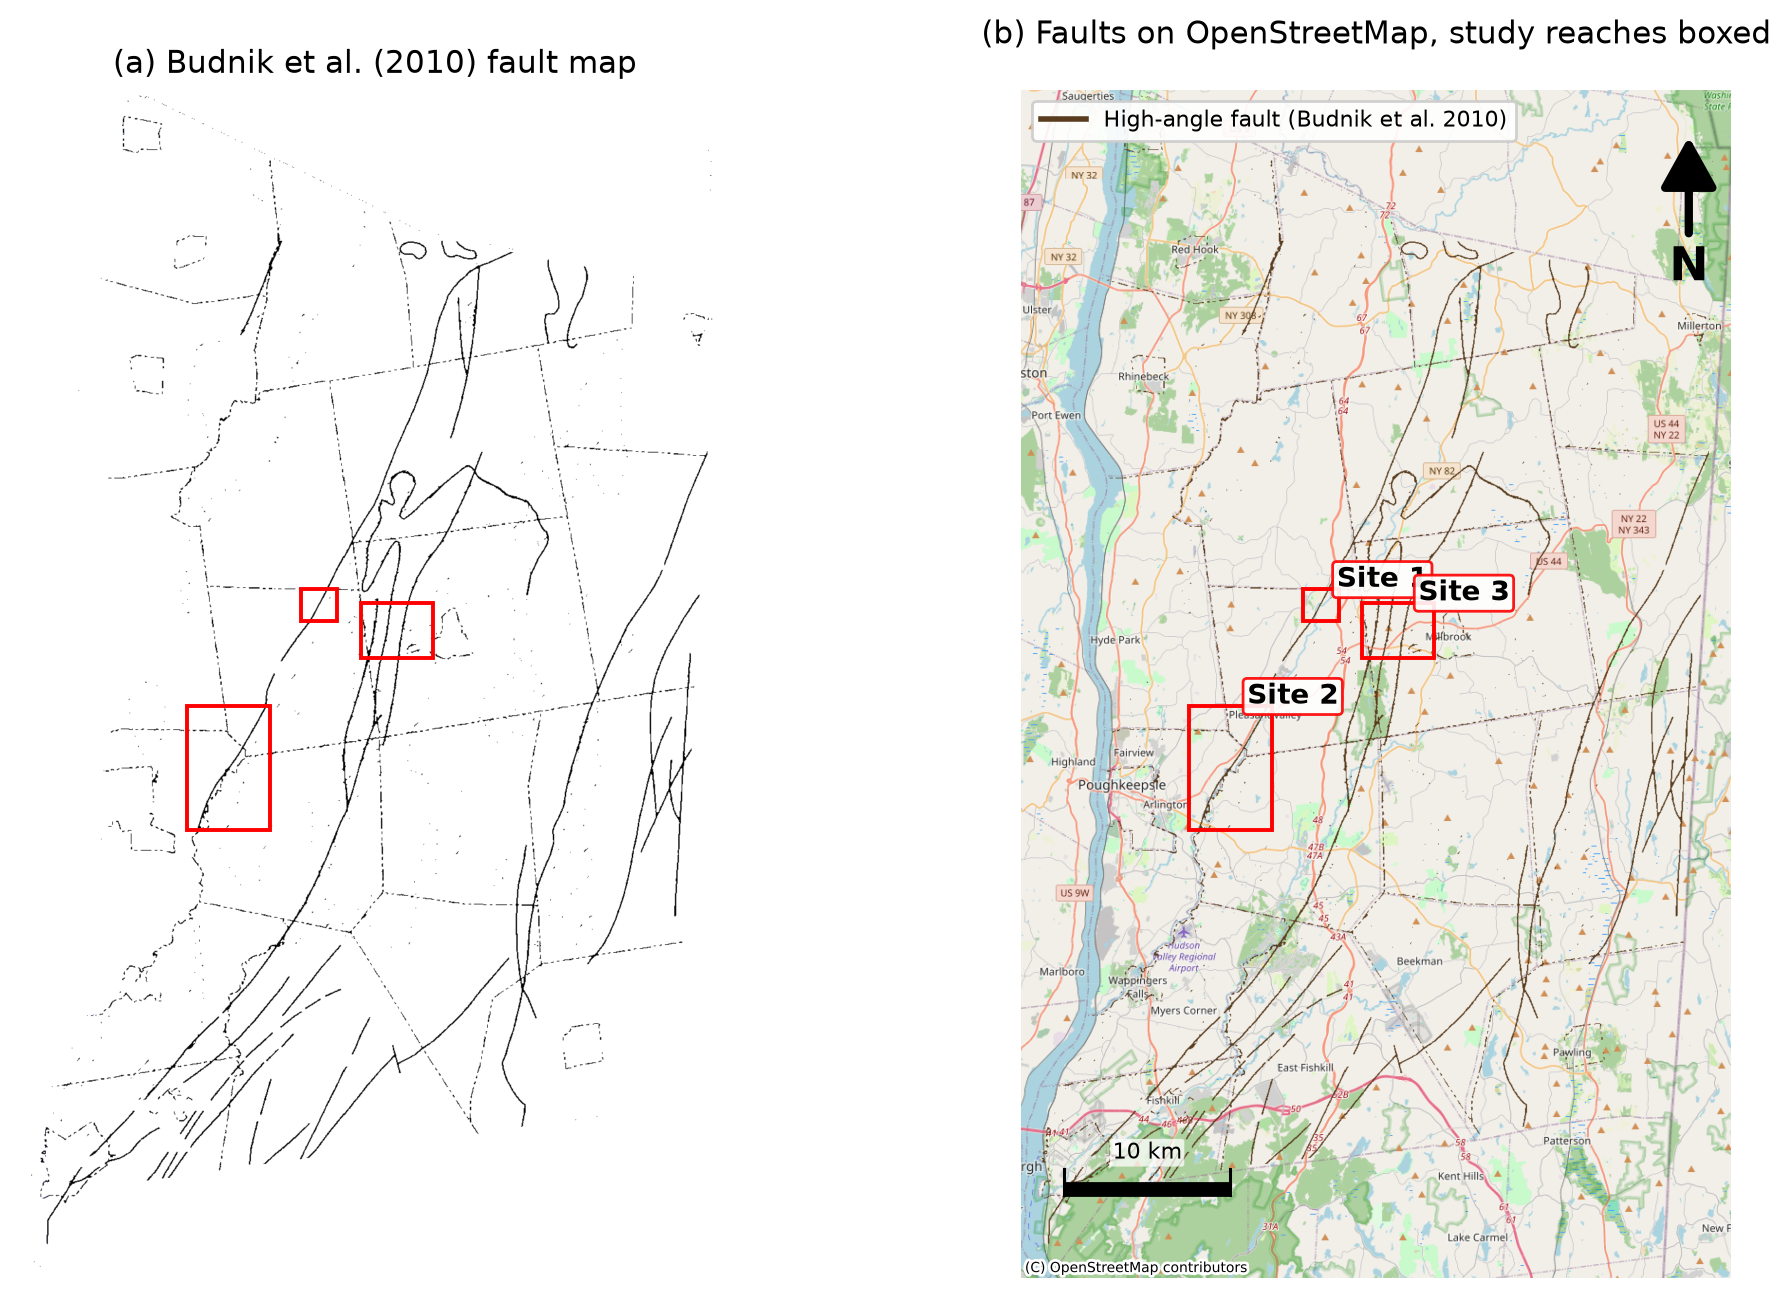
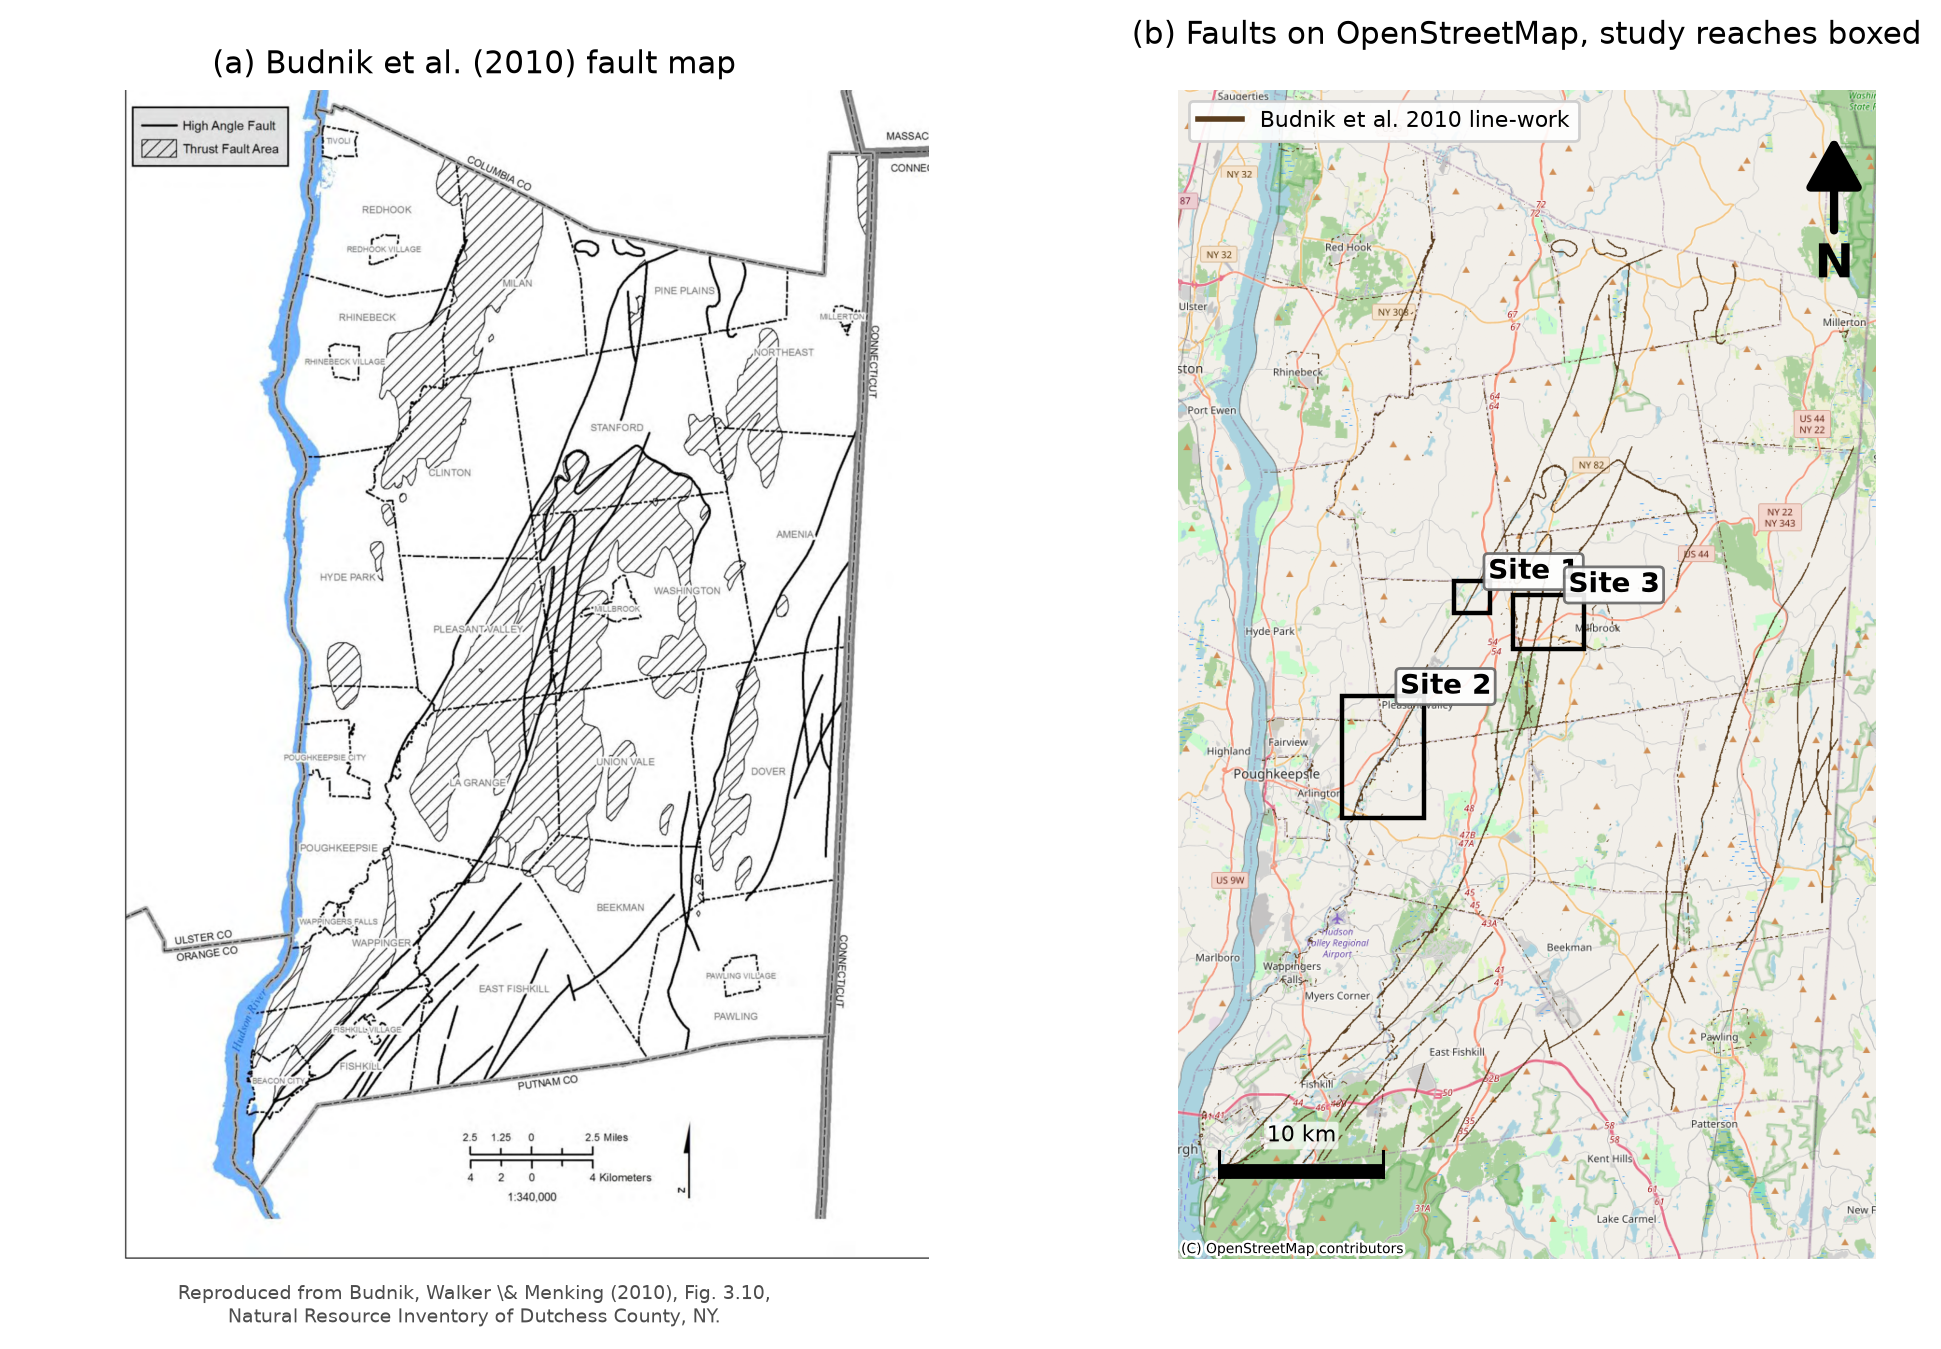
Figure 1: panel (a) = published Budnik figure with thrust areas + attribution
- The clipped/georeferenced raster (clipped_budnik.tif) lost the thrust-fault
  hatched areas in the clip, so panel (a) now reproduces the published Fig 3.10
  directly (thrust areas + legend + scale) with an on-figure source credit and
  a \citet attribution in the caption
- Panel (b) fault source is now prioritized: traced GeoJSON (bold clean lines)
  > clipped raster line-work > survey traces. Ready for hand-traced
  data/faults_budnik2010.geojson to drop in as bold fault lines

diff --git a/src/maps.py b/src/maps.py
@@ -382,65 +382,101 @@ def load_budnik_raster():
     return disp, rgba, extent
 
 
-def draw_overview(df, zframes):
-    """Two-panel regional figure (Figure 1), both panels at the SAME extent.
+def _budnik_extent():
+    """Geographic extent (Web Mercator) of the clipped Budnik raster, or None."""
+    tif = DATA / "clipped_budnik.tif"
+    if not tif.exists():
+        return None
+    import rasterio
+    b = rasterio.open(tif).bounds
+    return [b.left, b.right, b.bottom, b.top]
 
-    Left  -- Budnik et al. (2010) county fault map (georeferenced, clipped).
-    Right -- the same area on OpenStreetMap with the Budnik faults overlaid and
-             the three study reaches boxed. 1:1 comparison.
-    Falls back to the previous survey-trace layout if the georeferenced raster
-    is not present.
+
+def draw_overview(df, zframes):
+    """Two-panel regional figure (Figure 1).
+
+    Left  (a) -- the *published* Budnik et al. (2010) Fig. 3.10 (with thrust-
+                 fault areas and legend), reproduced directly, with attribution.
+    Right (b) -- the same region on OpenStreetMap with the mapped high-angle
+                 faults overlaid and the three study reaches boxed.
+
+    Panel-(b) faults, in priority order:
+      1. traced vector lines in ``data/faults_budnik2010.geojson`` (bold, clean);
+      2. else the clipped georeferenced raster's line-work (recoloured);
+      3. else survey-located traces.
     """
     import pandas as pd
-    budnik = load_budnik_raster()
-    if budnik is None:
+    src = FIG / "budnik_faultmap.png"
+    if not src.exists():
         return _draw_overview_fallback(df, zframes)
-    disp, ink_rgba, extent = budnik
+
+    vec = load_budnik_faults()
+    ras = load_budnik_raster()
+    extent = _budnik_extent()
+    if extent is None:  # frame panel (b) on the sites if there is no raster
+        pts = df.dropna(subset=["lat", "lon"])
+        mx, my = zip(*[merc(lo, la) for lo, la in zip(pts["lon"], pts["lat"])])
+        mx, my = np.array(mx), np.array(my)
+        h = max(np.ptp(mx), np.ptp(my)) * 0.62 + 1500
+        extent = [mx.mean() - h, mx.mean() + h, my.mean() - h, my.mean() + h]
     left, right, bottom, top = extent
     clat = cy_to_lat((bottom + top) / 2)
 
-    fig, (axL, axR) = plt.subplots(1, 2, figsize=(11.0, 6.4))
-    for ax in (axL, axR):
-        ax.set_xlim(left, right)
-        ax.set_ylim(bottom, top)
-        ax.set_aspect("equal")
-        ax.set_axis_off()
+    fig, (axL, axR) = plt.subplots(1, 2, figsize=(11.0, 6.6))
 
-    # -- left: georeferenced Budnik map --
-    axL.imshow(disp, extent=[left, right, bottom, top], origin="upper",
-               interpolation="bilinear")
+    # -- (a) the published figure, reproduced with attribution --
+    axL.imshow(plt.imread(src))
+    axL.set_axis_off()
     axL.set_title("(a) Budnik et al. (2010) fault map", fontsize=11)
+    axL.text(0.5, -0.02, "Reproduced from Budnik, Walker \\& Menking (2010), "
+             "Fig. 3.10,\nNatural Resource Inventory of Dutchess County, NY.",
+             transform=axL.transAxes, ha="center", va="top", fontsize=7,
+             color="0.3")
 
-    # -- right: OSM + Budnik fault ink + site boxes (same extent) --
+    # -- (b) OSM + faults + site boxes --
+    axR.set_xlim(left, right)
+    axR.set_ylim(bottom, top)
+    axR.set_aspect("equal")
+    axR.set_axis_off()
     add_basemap_safe(axR)
-    axR.imshow(ink_rgba, extent=[left, right, bottom, top], origin="upper",
-               interpolation="bilinear", zorder=4)
 
-    for ax in (axL, axR):
-        for site, zs in SITE_ZONES.items():
-            sp = pd.concat([zframes[z] for z in zs])
-            sx, sy = zip(*[merc(lo, la) for lo, la in zip(sp["lon"], sp["lat"])])
-            sx, sy = np.array(sx), np.array(sy)
-            pad = (top - bottom) * 0.012
-            ax.add_patch(plt.Rectangle((sx.min() - pad, sy.min() - pad),
-                                       np.ptp(sx) + 2 * pad, np.ptp(sy) + 2 * pad,
-                                       fill=False, edgecolor="red", lw=1.4,
-                                       zorder=8))
-        # label sites once, on the right panel
+    if vec:
+        for i, (fid, coords) in enumerate(vec.items()):
+            fx, fy = zip(*[merc(lo, la) for lo, la in coords])
+            axR.plot(fx, fy, color="#7a1010", lw=2.6, solid_capstyle="round",
+                     zorder=5, label="High-angle fault (Budnik et al. 2010)"
+                     if i == 0 else None)
+        faultsrc = "traced"
+    elif ras is not None:
+        _, ink_rgba, rext = ras
+        axR.imshow(ink_rgba, extent=[rext[0], rext[1], rext[2], rext[3]],
+                   origin="upper", interpolation="bilinear", zorder=4)
+        axR.plot([], [], color="#5a3d1e", lw=2,
+                 label="Budnik et al. 2010 line-work")
+        faultsrc = "raster"
+    else:
+        for i, (fid, coords) in enumerate(site_fault_lines(df, zframes).items()):
+            fx, fy = zip(*[merc(lo, la) for lo, la in coords])
+            axR.plot(fx, fy, color="#7a1010", lw=2, ls=(0, (7, 4)), zorder=5,
+                     label="Fault (survey-located)" if i == 0 else None)
+        faultsrc = "survey"
+
     for site, zs in SITE_ZONES.items():
         sp = pd.concat([zframes[z] for z in zs])
         sx, sy = zip(*[merc(lo, la) for lo, la in zip(sp["lon"], sp["lat"])])
         sx, sy = np.array(sx), np.array(sy)
+        pad = (top - bottom) * 0.012
+        axR.add_patch(plt.Rectangle((sx.min() - pad, sy.min() - pad),
+                                    np.ptp(sx) + 2 * pad, np.ptp(sy) + 2 * pad,
+                                    fill=False, edgecolor="black", lw=1.6,
+                                    zorder=8))
         axR.annotate(f"Site {site}", (np.mean(sx), sy.max()),
                      textcoords="offset points", xytext=(6, 6), fontsize=10,
-                     fontweight="bold", color="black", zorder=9,
-                     bbox=dict(boxstyle="round,pad=0.15", fc="white", ec="red",
+                     fontweight="bold", zorder=9,
+                     bbox=dict(boxstyle="round,pad=0.15", fc="white", ec="0.4",
                                alpha=0.9))
 
-    from matplotlib.lines import Line2D
-    axR.legend(handles=[Line2D([0], [0], color="#5a3d1e", lw=2,
-               label="High-angle fault (Budnik et al. 2010)")],
-               loc="upper left", fontsize=8, framealpha=0.9).set_zorder(10)
+    axR.legend(loc="upper left", fontsize=8, framealpha=0.9).set_zorder(10)
     add_scalebar(axR, _round_scale((right - left) * 0.5
                  * math.cos(math.radians(clat))), clat)
     north_arrow(axR)
@@ -450,7 +486,7 @@ def draw_overview(df, zframes):
     out = FIG / "overview.png"
     fig.savefig(out, dpi=200, bbox_inches="tight")
     plt.close(fig)
-    print(f"wrote {out.relative_to(FIG.parent)}  (georeferenced Budnik raster)")
+    print(f"wrote {out.relative_to(FIG.parent)}  (panel-b faults: {faultsrc})")
 
 
 def _draw_overview_fallback(df, zframes):

diff --git a/main.tex b/main.tex
@@ -75,7 +75,7 @@ For our study we selected three segments of Wappinger Creek, a tributary to the 
 \begin{figure}[htbp]
 	\centering
 	\includegraphics[width=\linewidth]{figures/overview.png}
-	\caption{Study area overview. (a) The county fault map of Budnik et al. (2010, Fig. 3.10), showing high-angle faults and thrust-fault areas across Dutchess County. (b) The three study reaches on Wappinger Creek (dashed boxes) on an OpenStreetMap base, with the mapped high-angle faults; each site sits where a high-angle fault crosses the creek. Reach-scale conductivity for each site is detailed in Figures~\ref{fig:site1}--\ref{fig:site3}.}
+	\caption{Study area overview. (a) The county fault map, reproduced from \citet{budnik2010}, Fig.~3.10, showing high-angle faults and thrust-fault areas across Dutchess County. (b) The three study reaches on Wappinger Creek (black boxes) on an OpenStreetMap base, with the same high-angle faults overlaid; each site sits where a high-angle fault crosses the creek. Reach-scale conductivity for each site is detailed in Figures~\ref{fig:site1}--\ref{fig:site3}.}
 	\label{fig:overview}
 \end{figure}
 
